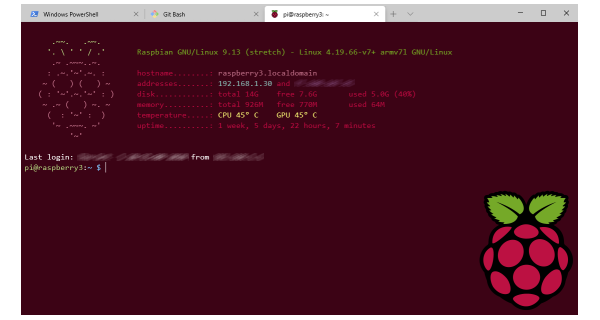
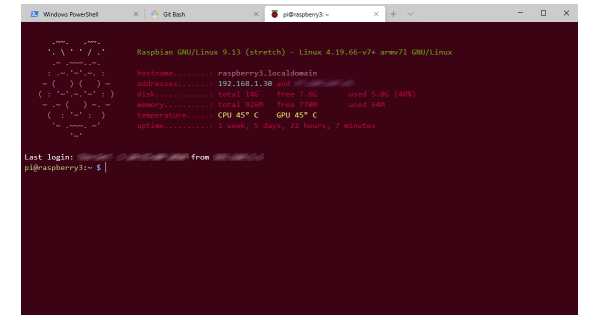
Added Windows Subsystem for Linux (WSL) Debian example.

Changed region(s): [[0.78, 0.5938, 0.96, 0.9688]]

diff --git a/misc/slides/terminal/windows-terminal.md b/misc/slides/terminal/windows-terminal.md
@@ -109,8 +109,7 @@ See [Tutorial: SSH in Windows Terminal](https://docs.microsoft.com/en-us/windows
 		"name": "Raspberry 3",
 		"commandline": "ssh pi@raspberry3.localdomain",
 		"colorScheme": "Raspberry",
-		"icon": "%USERPROFILE%\\Pictures\\Terminal\\raspberry-fav.png",
-		"backgroundImage": "%USERPROFILE%\\Pictures\\Terminal\\raspberry.png",
+		"icon": "%USERPROFILE%\\Pictures\\Terminal\\raspberry-fav.png"
 	},
 ```
 
